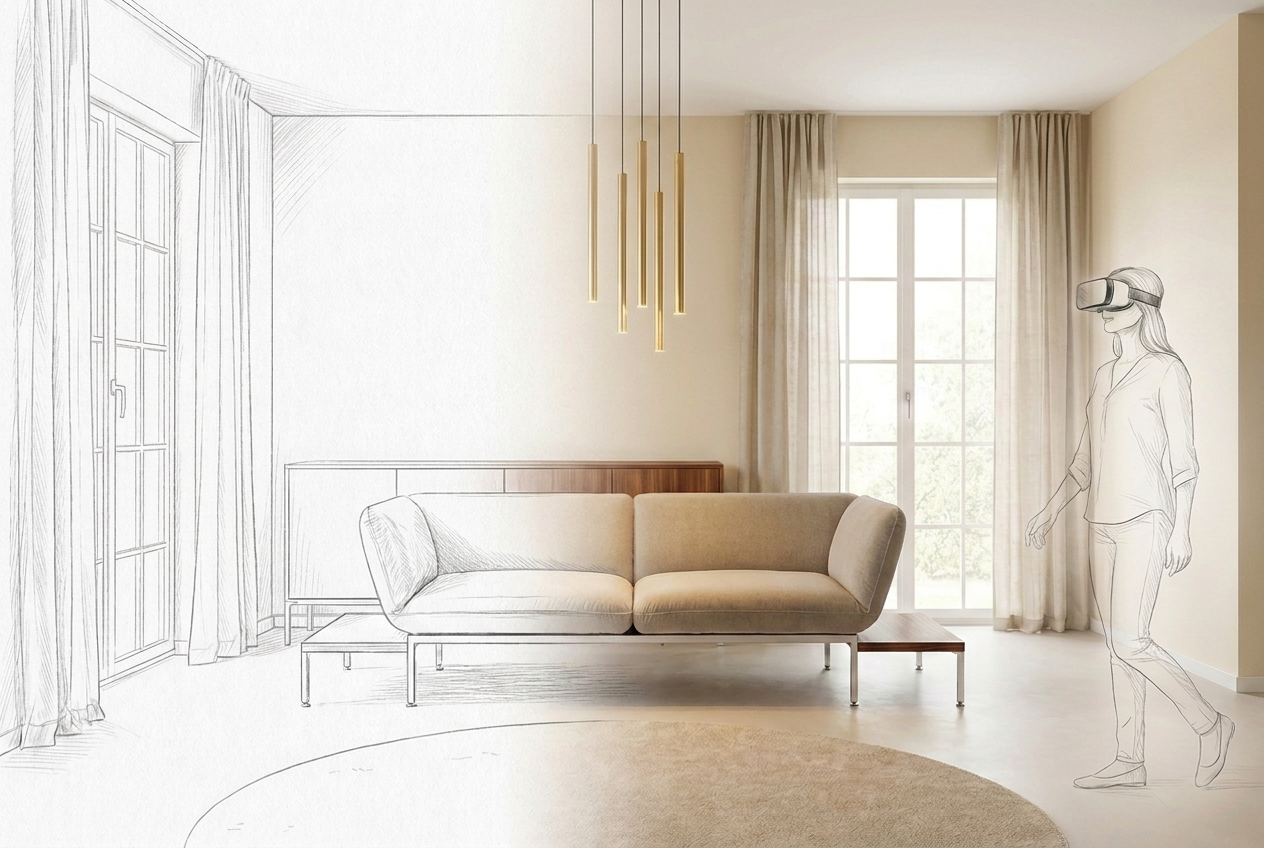
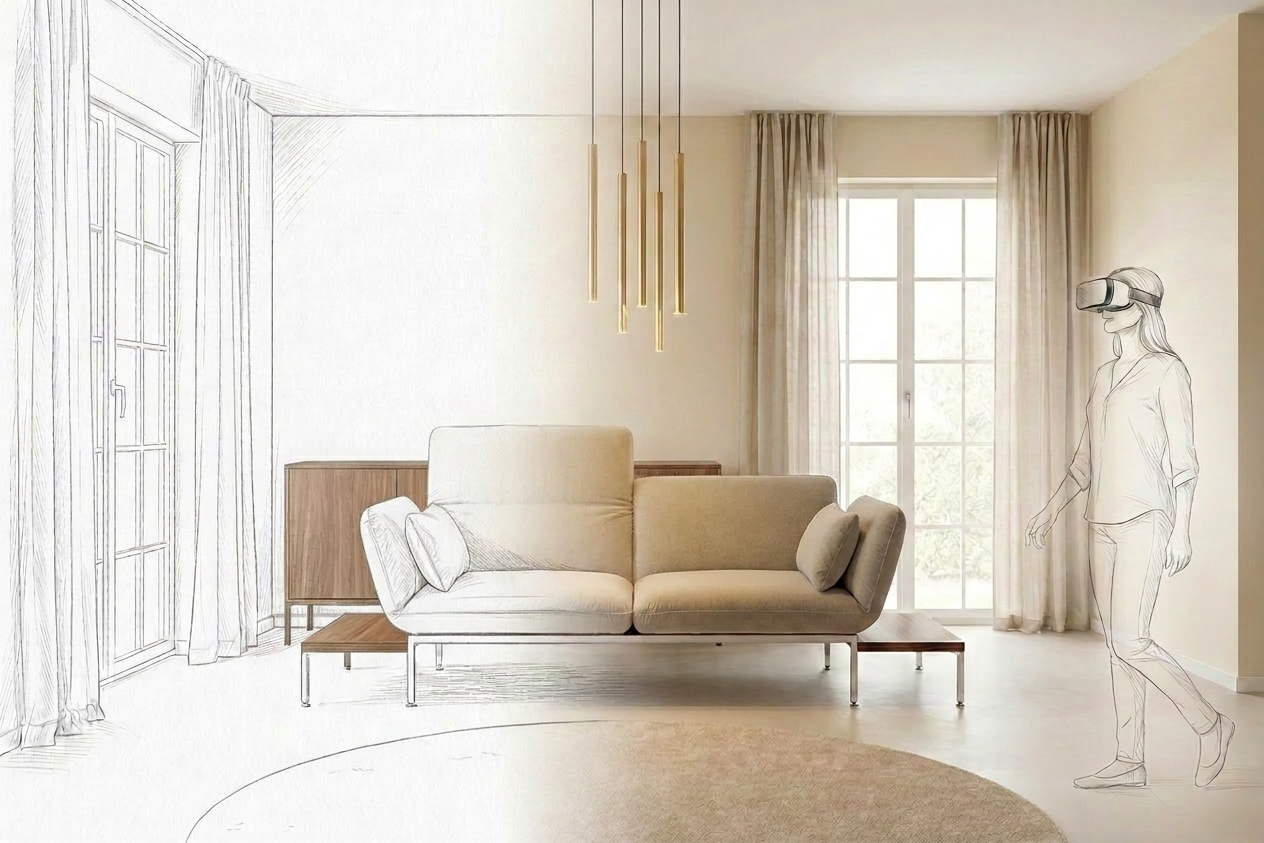
Startbild v5: roro in Sitzstellung (beide Lehnen aufrecht)

diff --git a/startbild-neu.html b/startbild-neu.html
@@ -31,7 +31,7 @@
     <div class="note">
       <strong>Umgesetzt nach Andreas Rückmeldung:</strong>
       <ul>
-        <li><span class="tick">&check;</span> Kopfst&uuml;tzen entfernt &rarr; niedrige Lehne, jetzt das echte <em>roro</em></li>
+        <li><span class="tick">&check;</span> <em>roro</em> in normaler Sitzstellung (beide Lehnen aufrecht), mit Chrom-Holz-Unterbau</li>
         <li><span class="tick">&check;</span> Sideboard im Hintergrund erg&auml;nzt (wohnlicher)</li>
         <li><span class="tick">&check;</span> Goldene Pendelleuchten unver&auml;ndert gelassen</li>
       </ul>